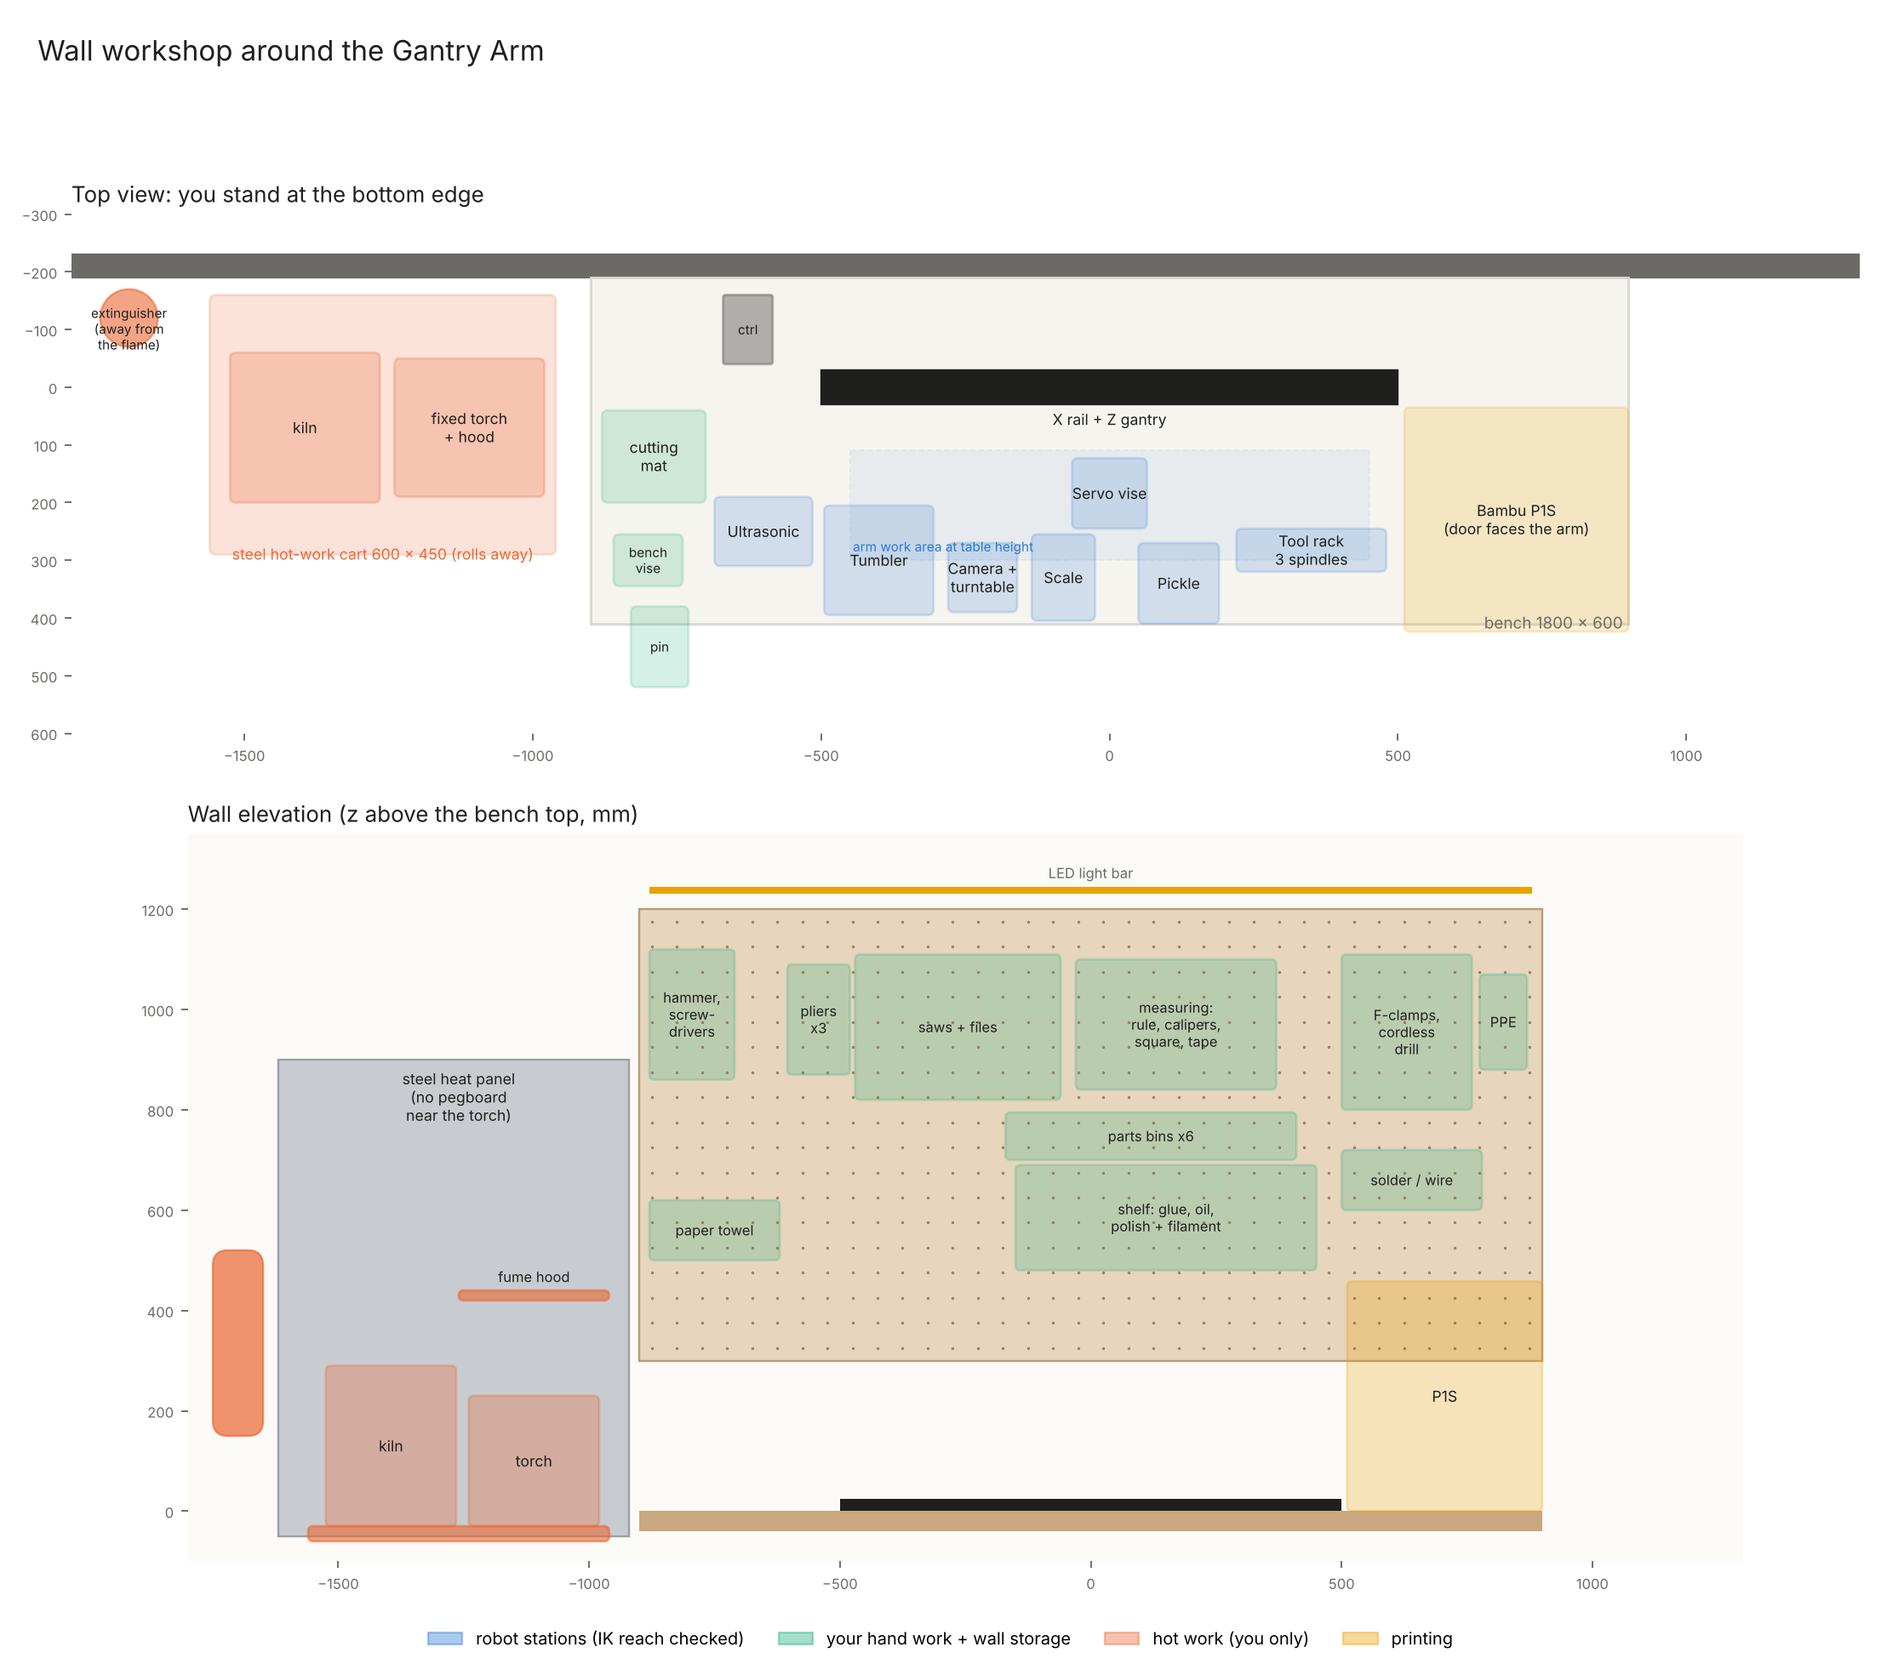
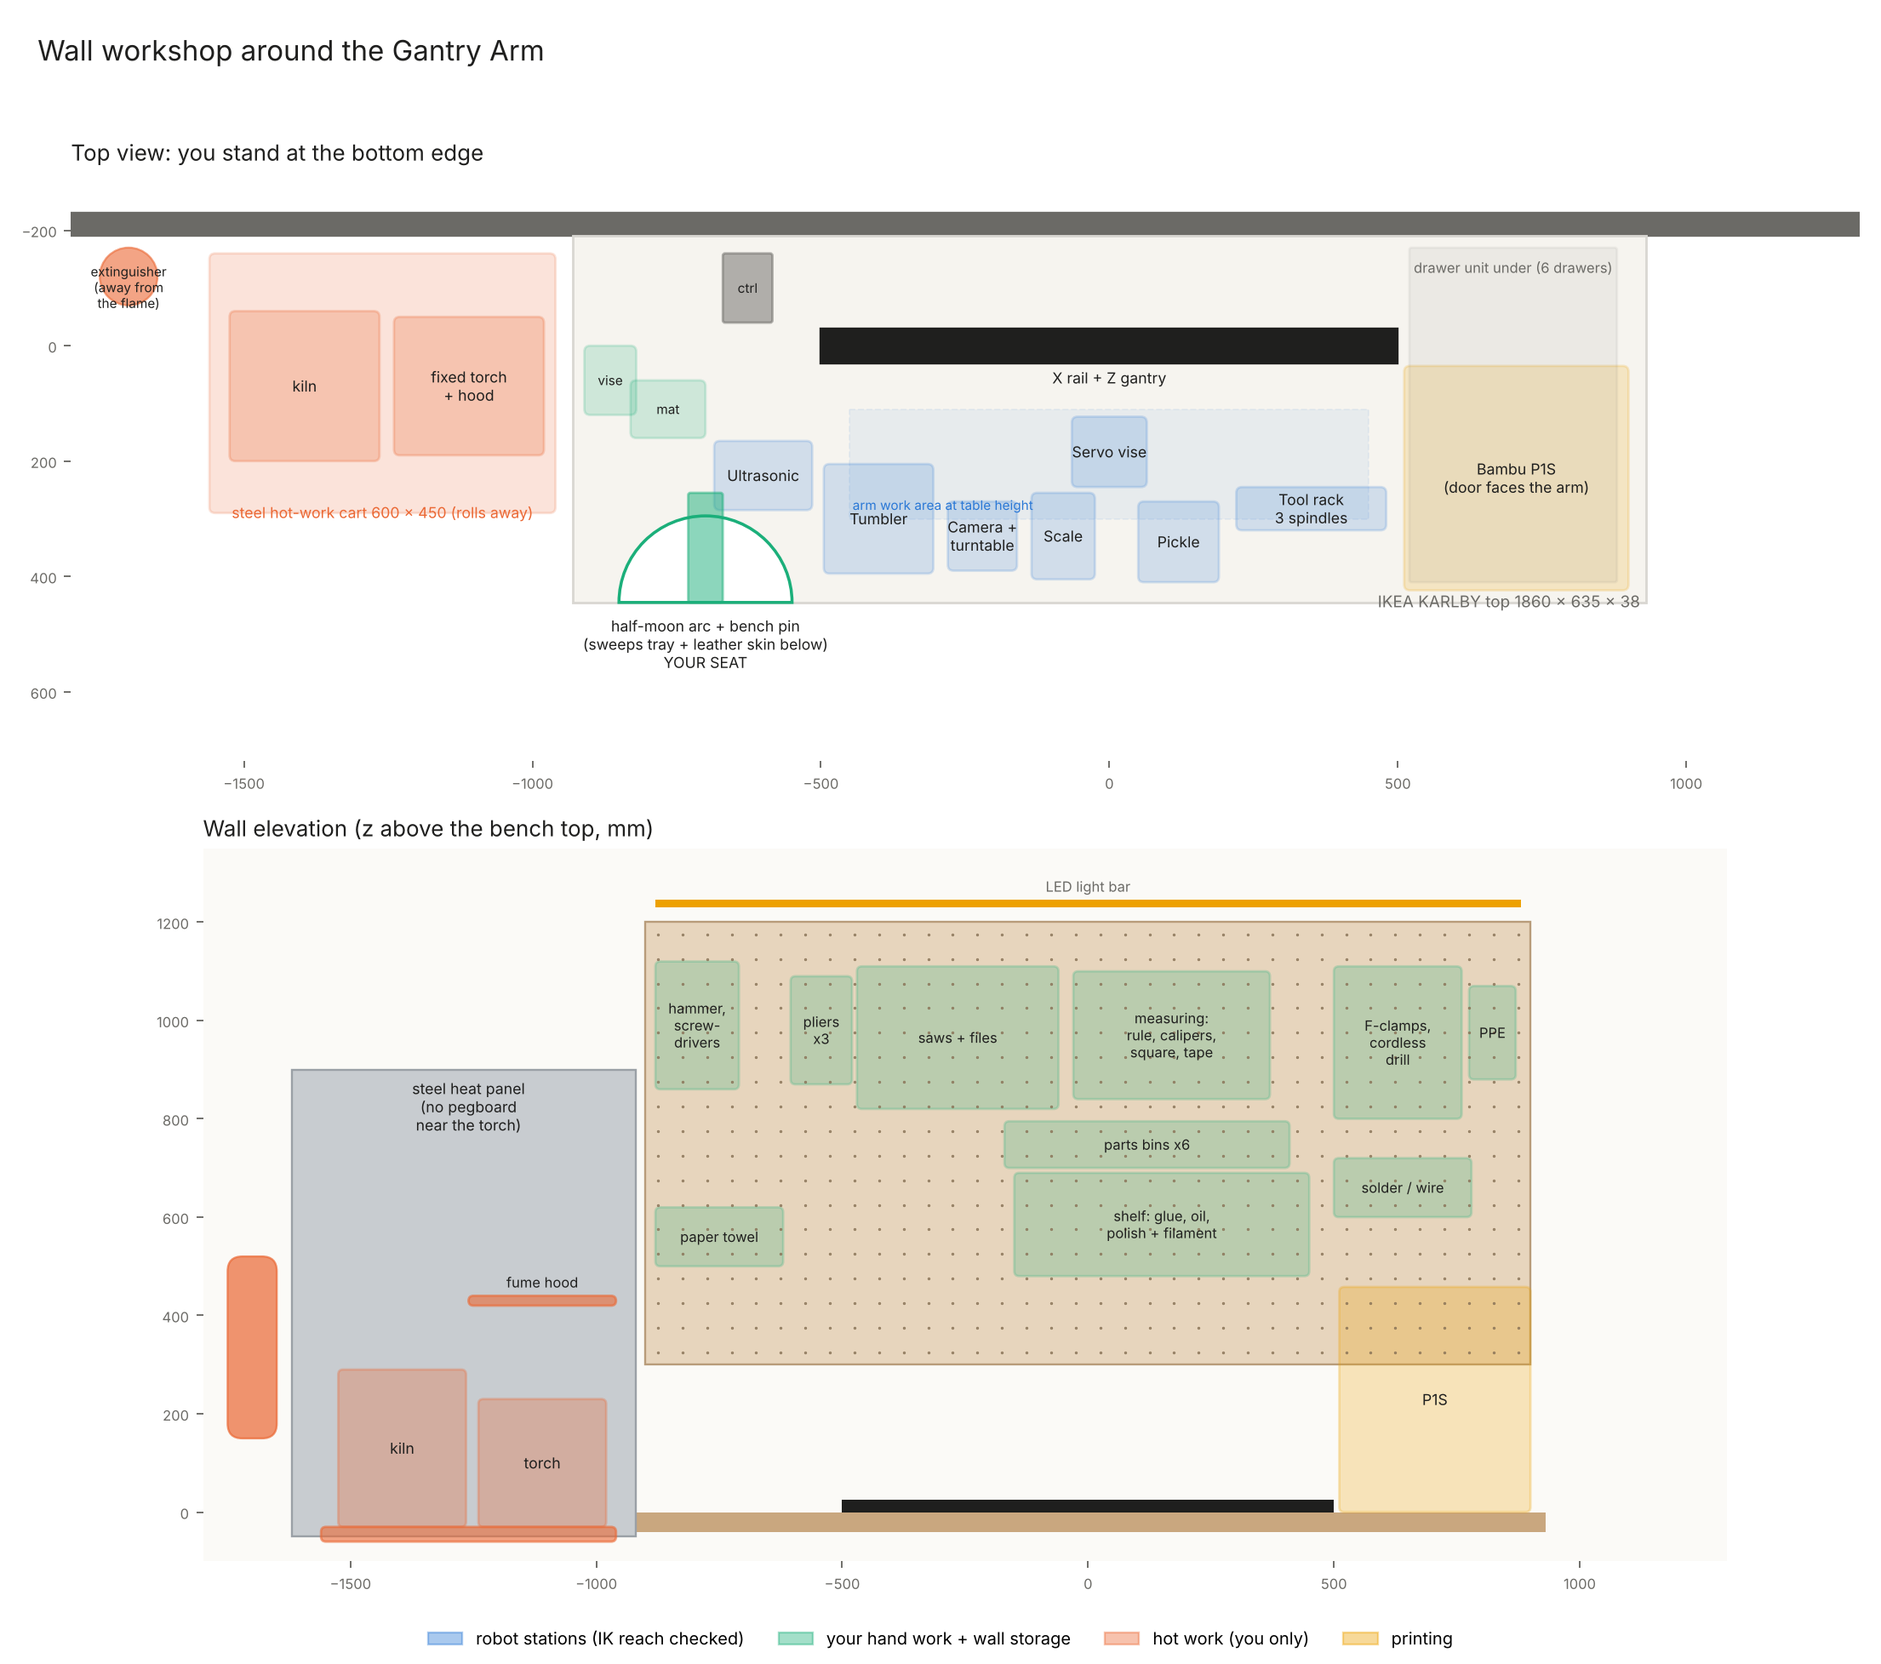
Workshop: IKEA KARLBY-size top with a jeweler's half-moon arc, bench pin, sweeps tray
Arc at the left-end seat (outside arm reach); round legs left, drawer unit right;
ultrasonic and hand-work items shifted clear of the arc; new 'seat' render view.

Claude-Session: https://claude.ai/code/session_014RnK8jdMQq2jRM9fPJpXfE

diff --git a/workshop/cad/workshop.py b/workshop/cad/workshop.py
@@ -21,7 +21,8 @@ from studio import box, cbox, cone, cyl, fil, torus  # noqa: E402
 
 OUT = HERE / "out"
 
-BENCH = dict(x0=-900.0, x1=900.0, y0=-190.0, y1=410.0, top=40.0, h=760.0)  # 1.8 x 0.6 m, top z=0
+BENCH = dict(x0=-930.0, x1=930.0, y0=-190.0, y1=445.0, top=38.0, h=760.0)  # IKEA KARLBY-size top 1860 x 635 x 38, top z=0
+ARC = dict(cx=-700.0, r=150.0)  # jeweler's half-moon cut into the front edge at your seat (left end, outside arm reach)
 WALL_Y = BENCH["y0"]
 PEG = dict(x0=-900.0, x1=900.0, z0=300.0, z1=1200.0, standoff=20.0, t=6.0)  # pegboard on furring strips
 PEG_FACE = WALL_Y + PEG["standoff"] + PEG["t"]
@@ -32,7 +33,7 @@ STATIONS = {
     "vise": dict(xy=(0.0, 205.0), z=70.0, what="Servo vise: sand / polish / drill / deburr any small part"),
     "tool_rack": dict(xy=(250.0, 275.0), z=110.0, what="Tool rack: 3 compliant spindles (240, 600, polish); tool change"),
     "p1s_plate": dict(xy=(535.0, 220.0), z=69.0, what="P1S build-plate tab: unload prints"),
-    "ultrasonic": dict(xy=(-600.0, 250.0), z=150.0, what="Ultrasonic cleaner: parts, jewelry, nozzles"),
+    "ultrasonic": dict(xy=(-600.0, 225.0), z=150.0, what="Ultrasonic cleaner: parts, jewelry, nozzles"),
     "tumbler": dict(xy=(-400.0, 300.0), z=170.0, what="Vibratory tumbler: deburr / polish batches"),
     "inspection": dict(xy=(-220.0, 330.0), z=45.0, what="Camera + turntable: QC photos, measuring"),
     "scale": dict(xy=(-80.0, 330.0), z=60.0, what="Scale: weigh parts, count screws, filament left"),
@@ -49,15 +50,21 @@ def build():
     b = BENCH
     # ------------------------------------------------------------------ room + bench
     add("wall", "wall_paint", box(-1800, 1300, WALL_Y - 40, WALL_Y, -800, 1500))
-    add("bench_top", "wood", box(b["x0"], b["x1"], b["y0"], b["y1"], -b["top"], 0))
-    legs = None
-    for x in (b["x0"] + 30, b["x1"] - 30):
-        for y in (b["y0"] + 30, b["y1"] - 30):
-            l = cbox(x, y, 50, 50, -b["h"], b["h"] - b["top"], 4)
-            legs = l if legs is None else legs.union(l)
-    legs = legs.union(box(b["x0"] + 10, b["x1"] - 10, b["y0"] + 40, b["y1"] - 40, -620, -600))  # lower shelf
-    add("bench_frame", "frame", legs)
-    add("bench_shelf_bins", "bin_blue", cbox(-300, 110, 300, 400, -600, 180, 6).union(cbox(250, 110, 300, 400, -600, 180, 6)))
+    top = box(b["x0"], b["x1"], b["y0"], b["y1"], -b["top"], 0)
+    top = top.cut(cyl(ARC["r"], (ARC["cx"], b["y1"], -60), (ARC["cx"], b["y1"], 10)))
+    top = fil(top, 3.0, "|Z")
+    add("bench_top", "wood", top)
+    legs = None  # round steel legs at the left end; an ALEX-style drawer unit carries the right end
+    for y in (b["y0"] + 50, b["y1"] - 50):
+        l = cyl(25, (b["x0"] + 27, y, -b["h"]), (b["x0"] + 27, y, -b["top"]))
+        legs = l if legs is None else legs.union(l)
+    add("bench_legs", "frame", legs)
+    dx0, dx1 = 520.0, 880.0
+    add("drawer_unit", "enamel_white", cbox((dx0 + dx1) / 2, 120, dx1 - dx0, 580, -b["h"], b["h"] - b["top"] - 2, 4))
+    for i in range(6):  # drawer fronts with finger-pull gaps
+        z0 = -b["h"] + 30 + i * 112
+        add(f"drawer_front_{i}", "enamel_white", box(dx0 + 4, dx1 - 4, 410, 414, z0, z0 + 106))
+        add(f"drawer_pull_{i}", "dark", box(dx0 + 120, dx1 - 120, 414, 416, z0 + 92, z0 + 100))
 
     # ------------------------------------------------------------------ pegboard + furring
     pg = PEG
@@ -101,13 +108,27 @@ def build():
     add("pickle_liquid", "liquid", cyl(61, (x, y, 18), (x, y, 85)))
     add("pickle_basket", "plastic_pp", cyl(38, (x, y, 55), (x, y, 102)).cut(cyl(36, (x, y, 57), (x, y, 103))).union(box(x - 3, x + 3, y - 2, y + 2, 102, 140)))
 
-    # ------------------------------------------------------------------ hand-work end (left, outside arm reach)
-    add("bench_pin", "wood_light", box(-830, -730, 380, 520, -22, -6).cut(box(-795, -765, 470, 521, -30, 0)))
-    add("bench_pin_clamp", "steel_dark", box(-840, -720, 380, 420, -60, -40))
-    add("bench_vise", "enamel_blue", cbox(-800, 300, 120, 90, 0, 60, 6).union(box(-850, -750, 345, 365, 60, 110)).union(box(-850, -750, 255, 275, 60, 110)))
-    add("bench_vise_handle", "steel", cyl(5, (-800, 410, 85), (-800, 470, 85)).union(cyl(4, (-830, 470, 85), (-770, 470, 85))))
-    add("cutting_mat", "mat_green", box(-880, -700, 40, 200, 0, 2))
-    add("project_print", "part_orange", cbox(-780, 110, 70, 50, 2, 30, 6))
+    # ------------------------------------------------------------------ jeweler's seat (left end, outside arm reach)
+    cx, r, fy = ARC["cx"], ARC["r"], b["y1"]
+    apex = fy - r
+    # classic V-slot bench pin: sits in the arc apex, top just under the bench top, tapered underneath
+    pin = box(cx - 30, cx + 30, apex - 40, apex + 150, -20, -2)
+    pin = pin.cut(box(cx - 9, cx + 9, apex + 85, apex + 151, -30, 5))  # V slot (sawing)
+    pin = pin.cut(box(cx - 31, cx + 31, apex + 60, apex + 151, -21, -14))  # thinner nose underneath
+    add("bench_pin", "wood_light", pin)
+    add("bench_pin_holder", "steel_dark", box(cx - 45, cx + 45, apex - 60, apex + 10, -80, -38).cut(box(cx - 31, cx + 31, apex - 61, apex + 11, -60, -38)))
+    # sweeps tray under the arc: catches filings and dropped stones
+    tray = box(cx - 170, cx + 180, apex - 60, fy + 60, -170, -110).cut(box(cx - 162, cx + 172, apex - 52, fy + 52, -162, -100))
+    add("sweeps_tray", "steel", tray)
+    add("sweeps_runners", "steel_dark", box(cx - 182, cx - 170, apex - 70, fy - 10, -120, -38).union(box(cx + 180, cx + 192, apex - 70, fy - 10, -120, -38)))
+    add("leather_skin", "leather", box(cx - 160, cx + 170, apex - 50, fy + 50, -158, -156))
+    # small bench vise + block on the left rear, cutting mat behind the arc
+    add("bench_vise", "enamel_blue", cbox(-865, 60, 90, 120, 0, 55, 6).union(box(-905, -825, 0, 15, 55, 100)).union(box(-905, -825, 105, 120, 55, 100)))
+    add("bench_vise_handle", "steel", cyl(5, (-820, 60, 75), (-770, 60, 75)))
+    add("cutting_mat", "mat_green", box(-830, -700, 60, 160, 0, 2))
+    add("bench_block", "steel", cbox(-765, 110, 90, 80, 2, 25, 2))
+    add("work_ring", "silver", torus(10, 2.2, (cx + 2, apex + 115, 9), (0, 1, 0)))
+    add("ring_mandrel", "steel", cone(7, 16, (-900, 330, 14), (-900, 140, 14)))
 
     # ------------------------------------------------------------------ hot cart (person only, parks at the left end)
     c = CART

diff --git a/workshop/render/plan.py b/workshop/render/plan.py
@@ -30,7 +30,7 @@ def rect(a, x0, y0, w, d, c, lab=None, alpha=0.18, fs=7.5, r=10):
 ax.add_patch(mp.Rectangle((-1800, WALL - 40), 3100, 40, fc=MUTED, ec=MUTED))
 ax.text(-1780, WALL - 45, "WALL  (pegboard above the bench, steel heat panel above the cart)", fontsize=8, color=MUTED, va="top")
 ax.add_patch(mp.Rectangle((B["x0"], B["y0"]), B["x1"] - B["x0"], B["y1"] - B["y0"], fc="#f6f4ef", ec=GRID, lw=1.2))
-ax.text(B["x1"] - 10, B["y1"] + 15, "bench 1800 x 600", ha="right", va="bottom", fontsize=8, color=MUTED)
+ax.text(B["x1"] - 10, B["y1"] + 15, "IKEA KARLBY top 1860 x 635 x 38", ha="right", va="bottom", fontsize=8, color=MUTED)
 ax.add_patch(mp.Rectangle((-450, 110), 900, 190, fc=ROBOT, alpha=0.07, ec=ROBOT, lw=0.8, ls="--"))
 ax.add_patch(mp.Rectangle((-500, -30), 1000, 60, fc=INK, ec=INK))
 ax.text(0, 40, "X rail + Z gantry", ha="center", va="top", fontsize=7.5, color=INK)
@@ -48,9 +48,14 @@ for k, (w, d) in size.items():
         x0, y0 = x - w / 2, y - d / 2
     rect(ax, x0, y0, w, d, ROBOT, lab[k] + ("" if R[k]["ok"] else "\n(NO REACH)"))
 rect(ax, 511, 35, 389, 389, PRINT, "Bambu P1S\n(door faces the arm)")
-rect(ax, -880, 40, 180, 160, HUMAN, "cutting\nmat")
-rect(ax, -860, 255, 120, 90, HUMAN, "bench\nvise", fs=6.5)
-rect(ax, -830, 380, 100, 140, HUMAN, "pin", fs=6.5)
+rect(ax, -830, 60, 130, 100, HUMAN, "mat", fs=6.5)
+rect(ax, -910, 0, 90, 120, HUMAN, "vise", fs=6.5)
+cx, r, fy = -700, 150, B["y1"]
+ax.add_patch(mp.Wedge((cx, fy), r, 180, 360, fc="white", ec=HUMAN, lw=1.5))
+rect(ax, cx - 30, fy - r - 40, 60, 190, HUMAN, None, alpha=0.5, r=4)
+ax.text(cx, fy + 25, "half-moon arc + bench pin\n(sweeps tray + leather skin below)\nYOUR SEAT", ha="center", va="top", fontsize=7.5, color=INK)
+rect(ax, 520, -170, 360, 580, MUTED, None, alpha=0.08, r=4)
+ax.text(700, -150, "drawer unit under (6 drawers)", ha="center", va="top", fontsize=7, color=MUTED)
 rect(ax, C["x0"], C["y0"], C["x1"] - C["x0"], C["y1"] - C["y0"], HOT, None)
 ax.text((C["x0"] + C["x1"]) / 2, C["y1"] + 15, "steel hot-work cart 600 x 450 (rolls away)", ha="center", va="bottom", fontsize=7.5, color=HOT)
 rect(ax, C["x0"] + 35, -60, 260, 260, HOT, "kiln", alpha=0.25)
@@ -58,7 +63,7 @@ rect(ax, C["x1"] - 280, -50, 260, 240, HOT, "fixed torch\n+ hood", alpha=0.25)
 ax.add_patch(mp.Circle((-1700, WALL + 70), 50, fc=HOT, alpha=0.6, ec=HOT))
 ax.text(-1700, WALL + 130, "extinguisher\n(away from\nthe flame)", ha="center", va="bottom", fontsize=6.5, color=INK)
 ax.set_xlim(-1800, 1300)
-ax.set_ylim(-300, 600)
+ax.set_ylim(-300, 720)
 ax.invert_yaxis()
 ax.set_aspect("equal")
 ax.set_title("Top view: you stand at the bottom edge", color=INK, fontsize=11, loc="left")

diff --git a/workshop/render/render_workshop.py b/workshop/render/render_workshop.py
@@ -1,6 +1,6 @@
 """Render the wall workshop: Gantry Arm on a 1.8 x 0.6 m bench, pegboard wall, hot-work cart.
 
-    python render/render_workshop.py --view overview|robot|wall|hot [--samples 96] [--res 2400x1500]
+    python render/render_workshop.py --view overview|robot|wall|hot|seat [--samples 96] [--res 2400x1500]
 """
 
 from __future__ import annotations
@@ -75,7 +75,7 @@ def pegboard_material():
 
 def main():
     ap = argparse.ArgumentParser()
-    ap.add_argument("--view", default="overview", choices=["overview", "robot", "wall", "hot"])
+    ap.add_argument("--view", default="overview", choices=["overview", "robot", "wall", "hot", "seat"])
     ap.add_argument("--samples", type=int, default=96)
     ap.add_argument("--res", default="2400x1500")
     ap.add_argument("--suffix", default="")
@@ -120,6 +120,8 @@ def main():
         "bottle_white": P("bot_w", (0.9, 0.9, 0.88), 0.35),
         "bottle_amber": P("bot_a", (0.45, 0.20, 0.03), 0.1, transmission=0.6),
         "bottle_blue": P("bot_b", (0.1, 0.25, 0.65), 0.35),
+        "enamel_white": P("en_white", (0.82, 0.82, 0.80), 0.35, coat=0.3),
+        "leather": P("leather", (0.30, 0.17, 0.08), 0.65),
         "led": P("ledbar", (1, 1, 1), 0.3, emission=(1.0, 0.96, 0.9), strength=8.0),
     })
 
@@ -153,6 +155,7 @@ def main():
         "robot": (Vector((-0.12, 0.22, 0.12)), Vector((0.42, 0.95, 0.48)), 30),
         "wall": (Vector((0.0, -0.15, 0.80)), Vector((0.35, 2.05, 0.05)), 30),
         "hot": (Vector((-1.25, 0.05, 0.10)), Vector((0.55, 1.40, 0.55)), 30),
+        "seat": (Vector((-0.74, 0.30, -0.06)), Vector((0.30, 0.78, 0.42)), 32),
     }
     tgt, off, lens = views[a.view]
     loc = tgt + off

diff --git a/workshop/README.md b/workshop/README.md
@@ -1,11 +1,11 @@
 # Wall workshop around the Gantry Arm
 
-A general-purpose workshop on a **1.8 × 0.6 m bench against a wall**, with **pegboard** above it and the hot gear on a **separate steel rolling cart**. No laser engraver. It covers 3D printing, small-part finishing, repairs and jewelry. **Design concept only: nothing is bought or approved.**
+A general-purpose workshop on an **IKEA KARLBY-size countertop (1860 × 635 × 38 mm) against a wall**, with a **classic jeweler's half-moon arc** cut into the front edge at your seat, with **pegboard** above it and the hot gear on a **separate steel rolling cart**. No laser engraver. It covers 3D printing, small-part finishing, repairs and jewelry. **Design concept only: nothing is bought or approved.**
 
 | File | What |
 |---|---|
 | `cad/workshop.py` | All geometry → `cad/out/*.stl`, `manifest.json`, `layout.json`. Also runs the arm **IK reach check** for every robot station → `reach.json` |
-| `render/render_workshop.py` | `--view overview / robot / wall / hot` (reuses the Gantry Arm renderer and its detail materials) |
+| `render/render_workshop.py` | `--view overview / seat / robot / wall / hot` (reuses the Gantry Arm renderer and its detail materials) |
 | `render/plan.py` | Top view + wall elevation → `render/out/workshop_plan.png` |
 
 ## Layout (you stand at the front edge)
@@ -14,13 +14,28 @@ A general-purpose workshop on a **1.8 × 0.6 m bench against a wall**, with **pe
 WALL ─ steel heat panel ─┬──────────────── pegboard (1.8 x 0.9 m) ─────────────────┐
   [cart: kiln | torch]   │ ctrl   ════ X rail + Z gantry ════            [ P1S   ] │
   extinguisher (far end) │ mat  ultrasonic tumbler cam scale VISE pickle  rack     │
-                         │ bench vise / bench pin (your end)                       │
+                         │  (  half-moon arc + pin = your seat  )                    │
 ```
 
 - **Right end:** the Bambu P1S, turned so its door faces the arm. The arm pulls the build plate by its tab.
 - **Middle:** the robot stations, all inside the arm's reach.
-- **Left end:** your hand-work area (cutting mat, small bench vise, bench pin). This end is outside the arm's reach on purpose, so the arm never works where your hands are.
-- **Under the bench:** a shelf with two storage bins.
+- **Left end, your seat:** the half-moon arc (see below), with a small bench vise, cutting mat and steel bench block behind it. This end is outside the arm's reach on purpose, so the arm never works where your hands are.
+- **Legs:** two round steel legs hold the left end, and a 6-drawer unit (ALEX-style) carries the right end under the P1S.
+
+## The half-moon jeweler's seat
+
+| Part | Detail |
+|---|---|
+| Arc | 300 mm wide × 150 mm deep, jigsawed into the KARLBY front edge, centred 230 mm from the left end |
+| Bench pin | Classic V-slot pin in a steel holder under the top, at the back of the arc, sticking out toward you |
+| Sweeps tray | Steel tray on runners under the arc. It catches filings and dropped stones, and slides out to empty |
+| Leather skin | Inside the tray, for a soft landing |
+
+Tips for the cut:
+- Mark the arc with a string compass.
+- Cut with a fine-tooth jigsaw blade from the underside (less veneer chipping), then sand.
+- Seal the cut edge with oil or varnish: the core is exposed there and must not take up water.
+- A jeweler's bench pin usually sits at about armpit height when seated, higher than a desk. Adjustable legs, or a raised seat pad on your chair, get you closer to that.
 
 ## What the robot does (IK reach checked for each station)
 
@@ -69,7 +84,7 @@ The tools stick out at most about 110 mm from the board, keeping them clear of t
 
 ## Changes from the jewelry studio
 
-The heat-shield wall and the laser engraver are gone. The bench polisher is gone too: the robot polishes with the felt spindle in the vise instead. The kiln and torch moved onto the cart. The pegboard replaced the back half of the old bench.
+The heat-shield wall and the laser engraver are gone. The bench is now an IKEA top with a half-moon arc. The bench polisher is gone too: the robot polishes with the felt spindle in the vise instead. The kiln and torch moved onto the cart. The pegboard replaced the back half of the old bench.
 
 ## Not done yet
 
